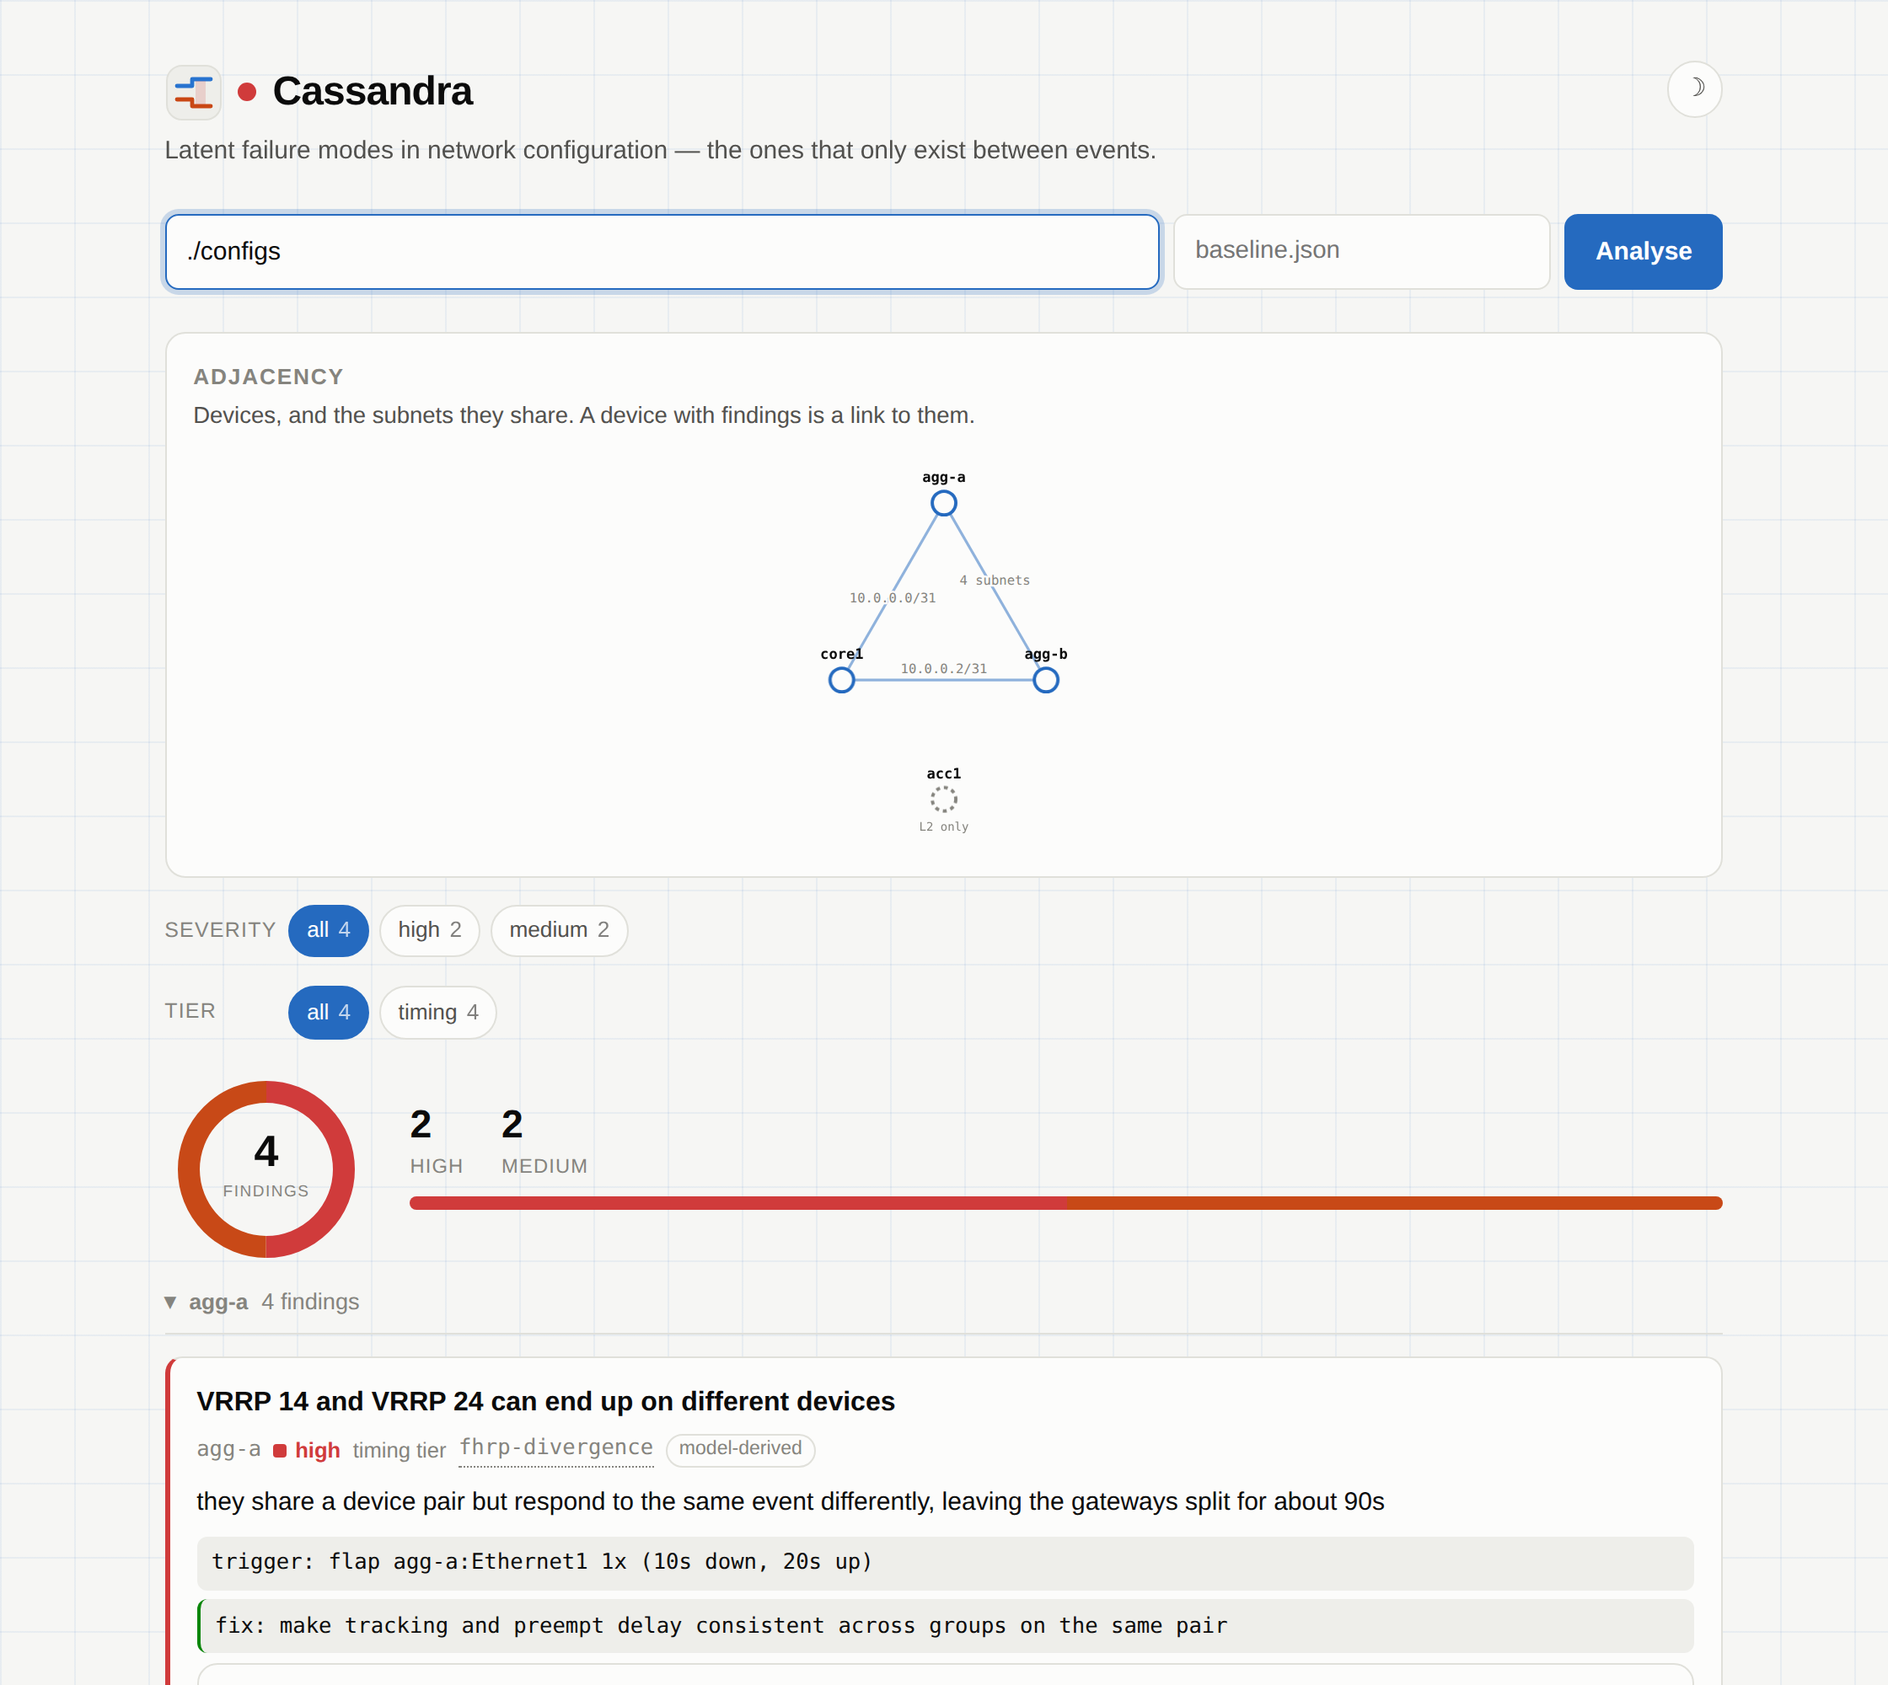
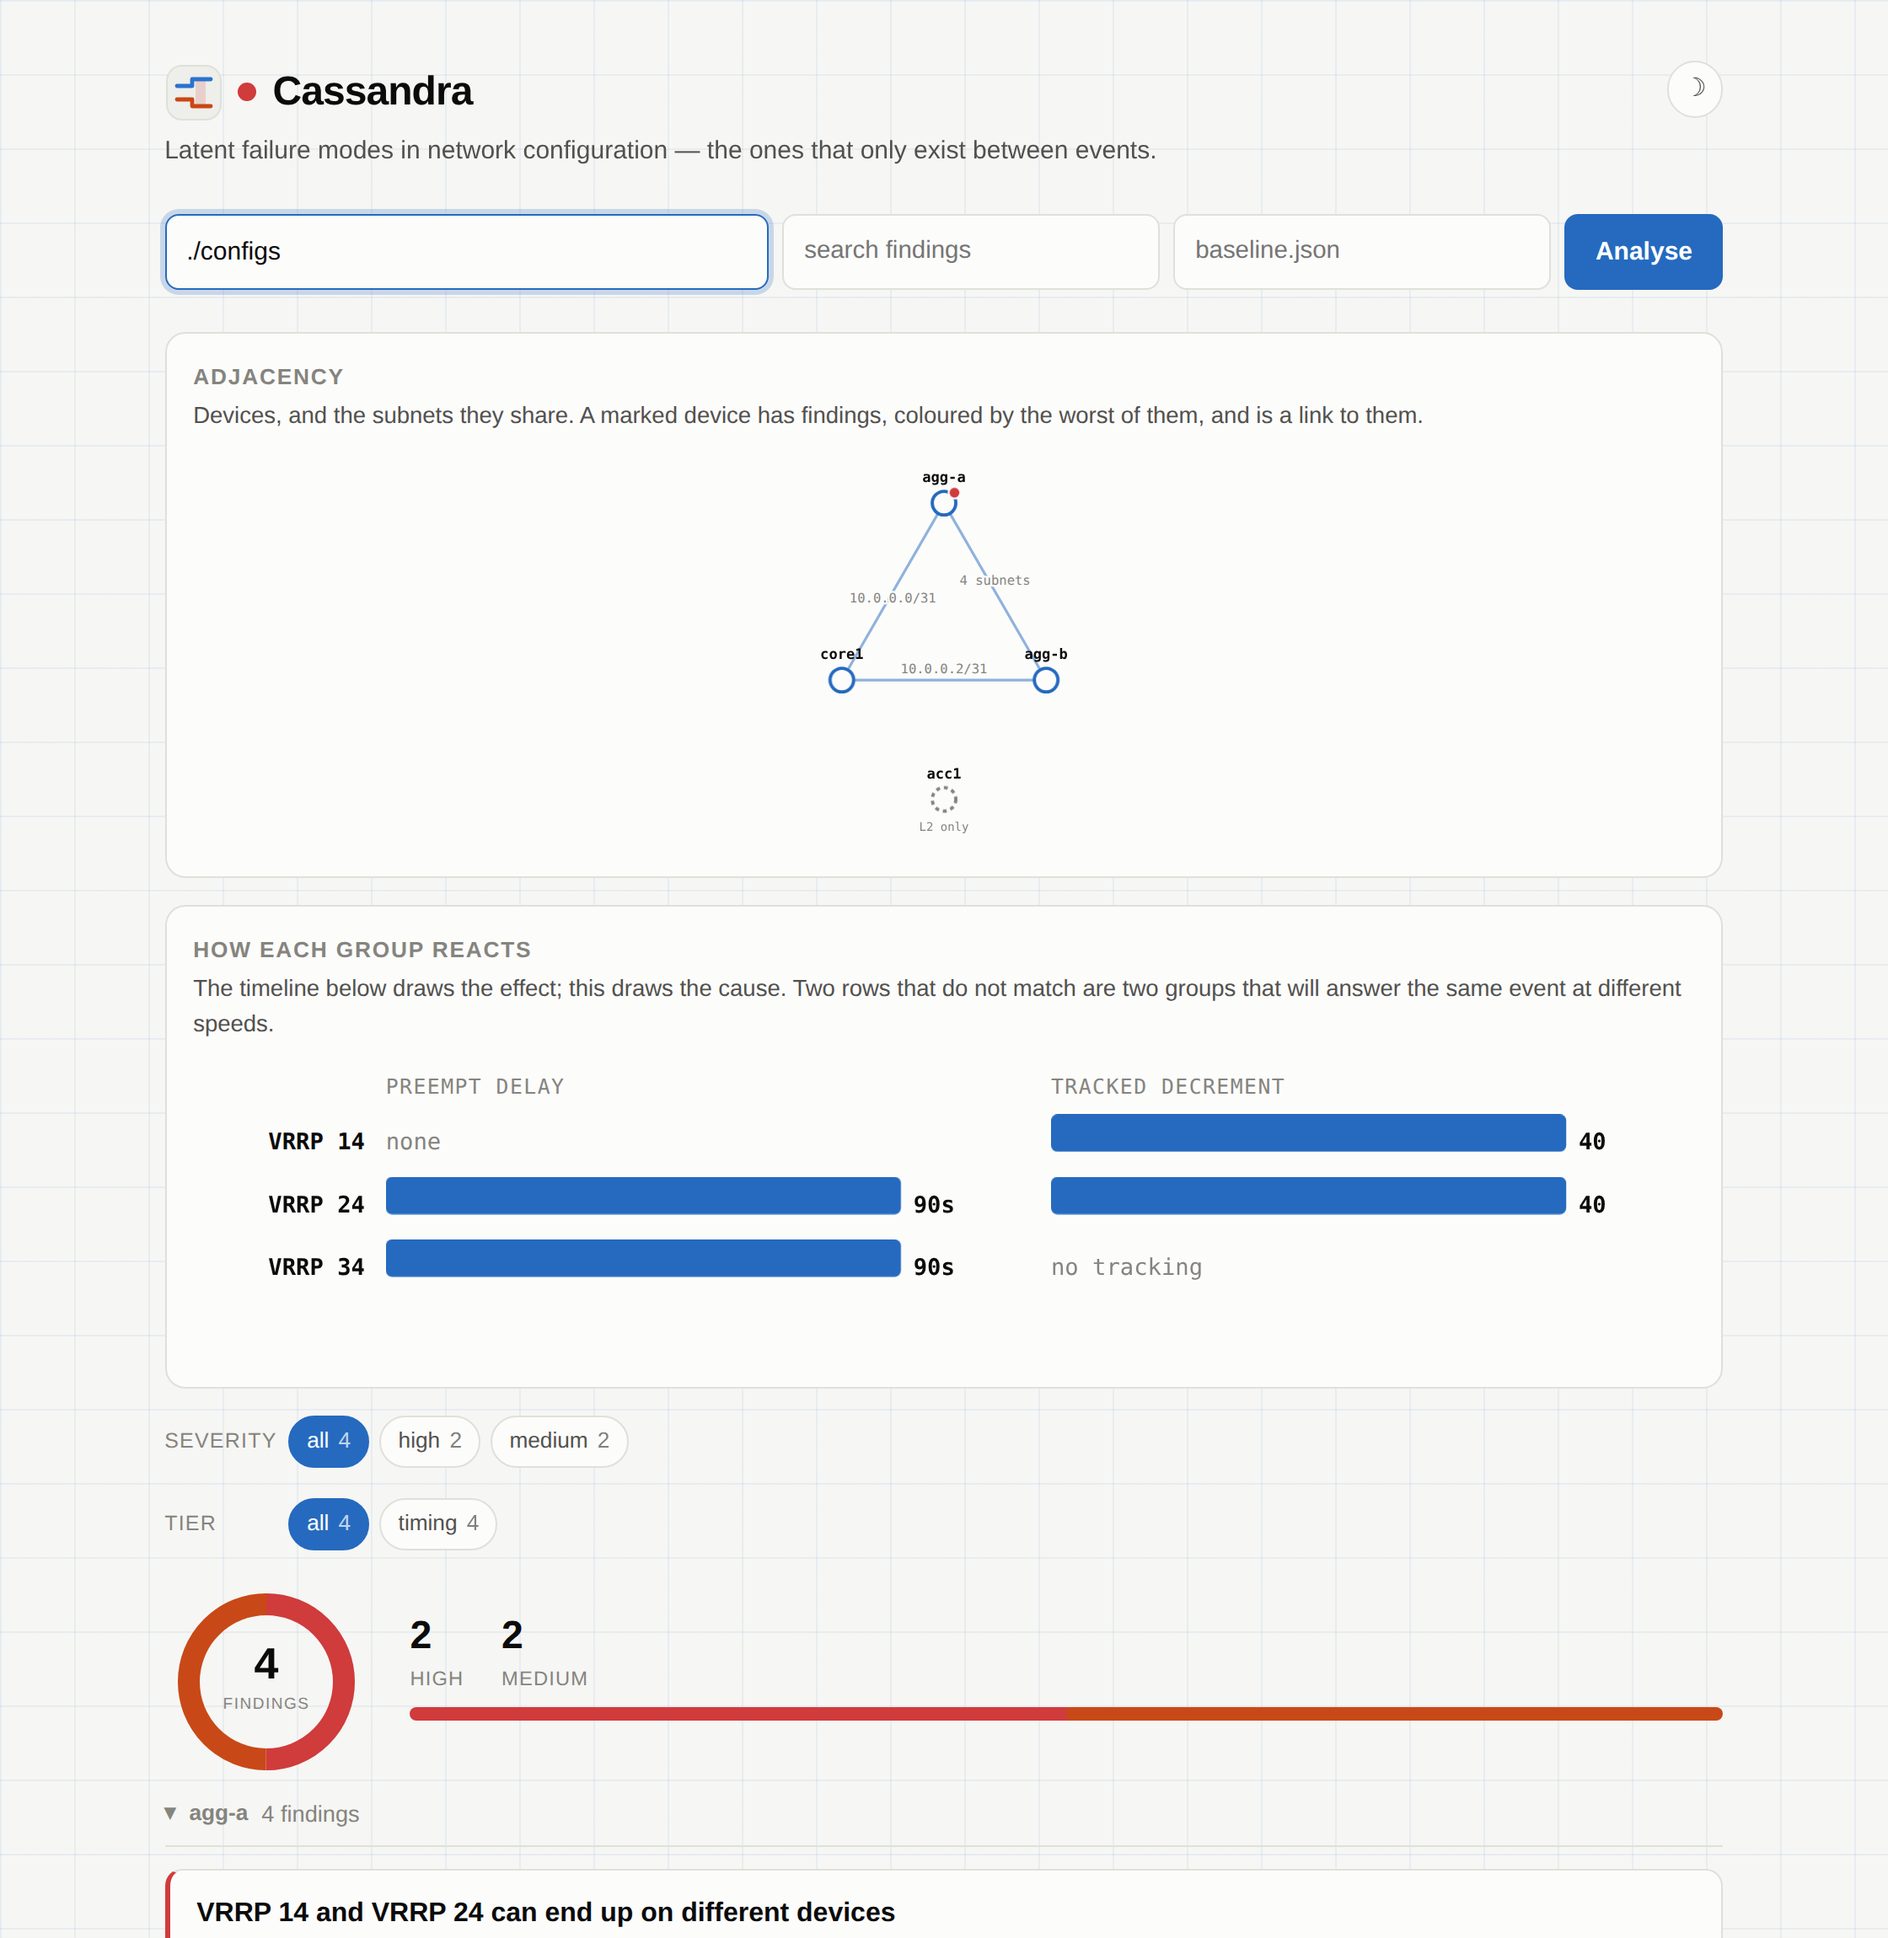
Refresh the figures for the search box, the marks and the new cause figure

diff --git a/README.md b/README.md
@@ -33,6 +33,11 @@ VRRP 24 sits on `agg-b` while 14 and 34 sit on `agg-a`. That gap **is** the fail
 state contains it, which is why static analysis reports this network healthy — and Batfish,
 run against these same configs, does exactly that.
 
+Above it, the tool draws the cause: three groups on one device pair, one of which waits ninety
+seconds before taking mastership back, one of which waits for nothing, and one of which does
+not track the uplink at all. Two rows that do not match are two groups that will answer the
+same event at different speeds.
+
 ```
 $ cassandra check ./configs --explain
 HIGH  agg-a  VRRP 14 and VRRP 24 can end up on different devices
